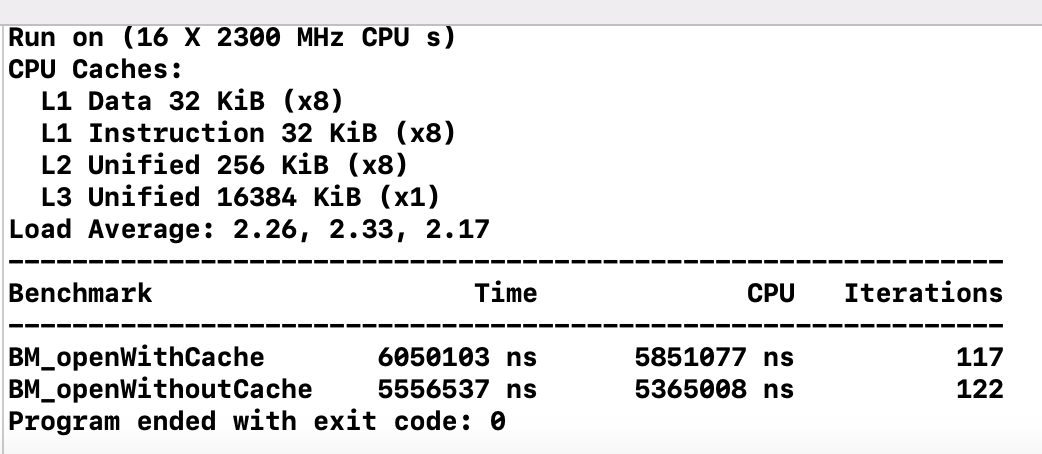
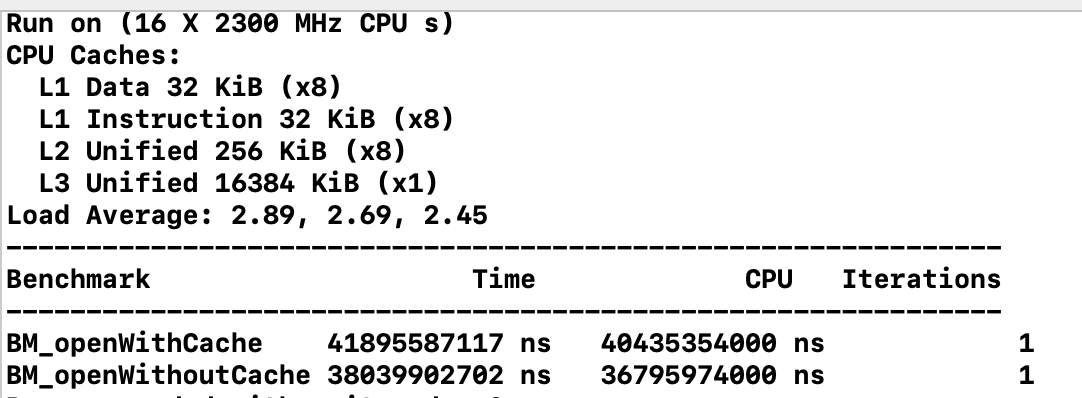
Исправлены итерации в тестах

diff --git a/RawIObecnhmark/main.cpp b/RawIObecnhmark/main.cpp
@@ -16,14 +16,14 @@ const int blockSize = 4096;
 
 static void BM_openWithCache(benchmark::State& state) {
 	for (auto _ : state) {
-		for (int i = 0; i < 1024; i++)
+		for (uint64_t i = 0; i < 8388608; i++)
 			manager->readInRandomPlace();
 	}
 }
 
 static void BM_openWithoutCache(benchmark::State& state) {
 	for (auto _ : state) {
-		for (int i = 0; i < 1024; i++)
+		for (uint64_t i = 0; i < 8388608; i++)
 			manager->readInRandomPlace();
 	}
 }
